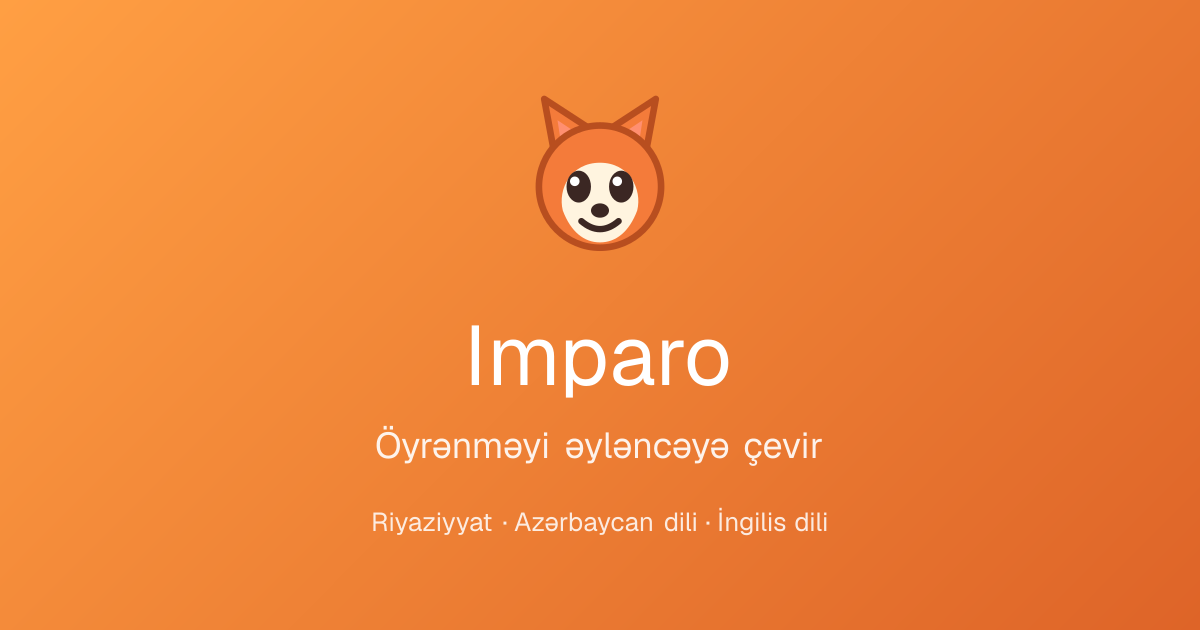
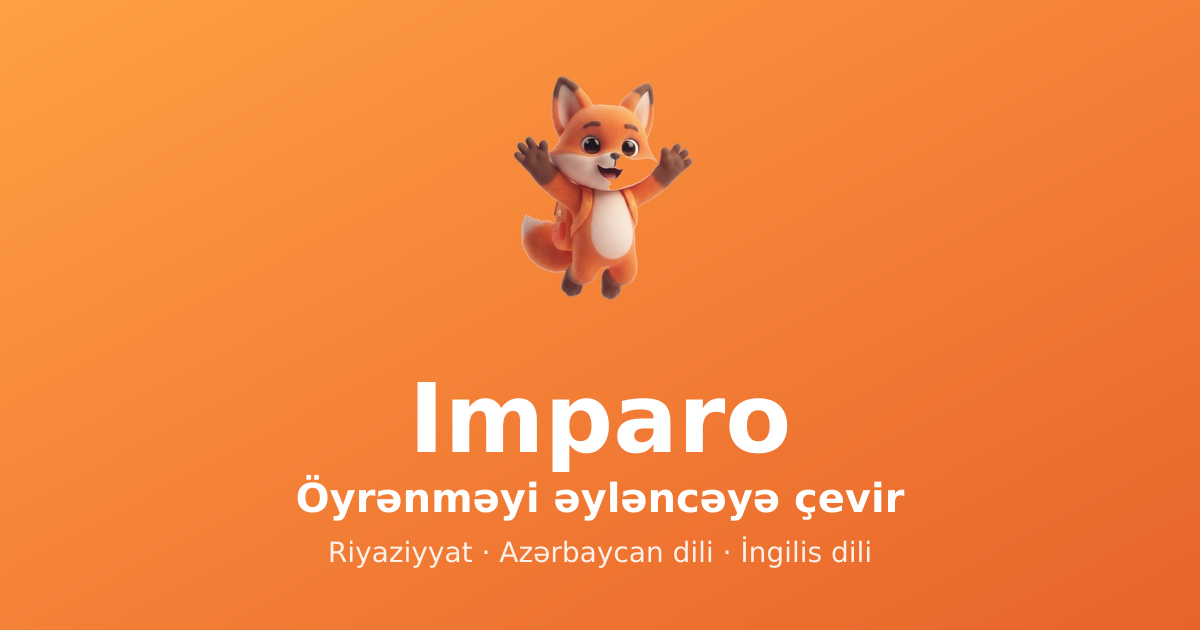
OG şəkli: köhnə kobud maskot → yeni 3D Zefi (WhatsApp önizləmə) + keş-bust ?v=2
- public/og.png yenidən yaradıldı (yeni Zefi welcome + brend gradient + tagline)
- og:image/twitter:image → /og.png?v=2 (scraper keşini qır)
- SW keş v95

Changed region(s): [[0.2467, 0.5127, 0.7708, 0.9048], [0.4317, 0.1206, 0.5858, 0.4825]]

diff --git a/app/layout.tsx b/app/layout.tsx
@@ -94,7 +94,7 @@ export const metadata: Metadata = {
     type: "website",
     images: [
       {
-        url: "/og.png",
+        url: "/og.png?v=2",
         width: 1200,
         height: 630,
         alt: "Imparo — 1–8-ci siniflər üçün interaktiv öyrənmə",
@@ -106,7 +106,7 @@ export const metadata: Metadata = {
     title: "Imparo — öyrənməyi əyləncəyə çevir",
     description:
       "1–8-ci siniflər üçün interaktiv öyrənmə platforması. Pulsuz və maraqlı.",
-    images: ["/og.png"],
+    images: ["/og.png?v=2"],
   },
 };
 

diff --git a/public/sw.js b/public/sw.js
@@ -5,7 +5,7 @@
 //   - Naviqasiya (səhifə): əvvəlcə şəbəkə, offline olsa keşdən/ana səhifədən.
 //   - Statik fayllar (_next/static, şəkil, şrift): stale-while-revalidate.
 
-const CACHE = "bilik-yolu-v94";
+const CACHE = "bilik-yolu-v95";
 const OFFLINE_URL = "/";
 
 // Şəbəkə çatmayanda göstəriləcək minimal offline HTML.
